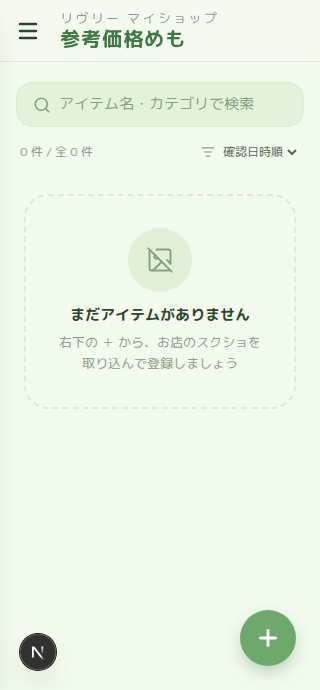
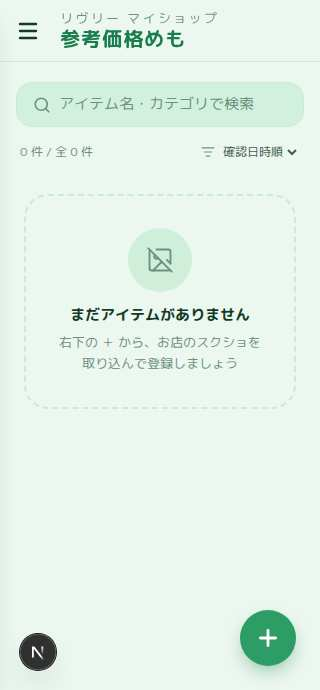
Shift palette to emerald and put reference price first
Re-tunes the green palette toward emerald — deeper accent (#1a7d4d /
#2e9d65) for titles, FAB, and prices, with darker emerald body text on
a paler emerald background. Reorders the card price line to put the
reference price range first in bold emerald, followed by the minimum
sale price in a muted secondary style:
"4,100〜5,300GP / 1,800GP"

Refreshes the screenshots under docs/screenshots/.

https://claude.ai/code/session_01QfKFPG59Pejpqns5ZAaJf6

diff --git a/src/app/globals.css b/src/app/globals.css
@@ -1,18 +1,18 @@
 @import "tailwindcss";
 
 :root {
-  /* Green-based pastel palette. Class names kept (cream/beige/gold) for stability. */
-  --color-cream: #f3faee;       /* page background — pale leaf */
-  --color-beige: #dceed1;       /* card border / soft chip bg */
-  --color-beige-deep: #c2dfb1;  /* deeper leaf */
-  --color-gold: #6fa86c;        /* primary accent (CTA, FAB) — sage */
-  --color-gold-deep: #3f7a44;   /* deep accent for titles / active text */
+  /* Emerald-leaning pastel palette. Class names kept (cream/beige/gold) for stability. */
+  --color-cream: #ecf7f0;       /* page background — pale emerald */
+  --color-beige: #c8ecd6;       /* card border / soft chip bg */
+  --color-beige-deep: #9bd9b0;  /* deeper emerald wash */
+  --color-gold: #2e9d65;        /* primary accent (CTA, FAB) — emerald */
+  --color-gold-deep: #1a7d4d;   /* deep emerald for titles / prices / active */
   --color-pink: #ffd6e0;        /* tag: gacha */
-  --color-mint: #d6f0c8;        /* tag: category — green-leaning mint */
+  --color-mint: #d8f0bf;        /* tag: category — lime-leaning so it stays distinct from bg */
   --color-sky: #c7e9fb;         /* tag: custom */
   --color-lavender: #e0d6ff;    /* tag: period */
-  --color-text: #2f4530;        /* main text — dark forest */
-  --color-muted: #88a085;       /* muted text — sage */
+  --color-text: #133a25;        /* main text — dark emerald forest */
+  --color-muted: #6e9080;       /* muted — sage */
 
   --background: var(--color-cream);
   --foreground: var(--color-text);
@@ -52,8 +52,8 @@ body {
 .paper {
   background-color: var(--color-cream);
   background-image:
-    radial-gradient(rgba(63, 122, 68, 0.05) 1px, transparent 1px),
-    radial-gradient(rgba(63, 122, 68, 0.03) 1px, transparent 1px);
+    radial-gradient(rgba(26, 125, 77, 0.05) 1px, transparent 1px),
+    radial-gradient(rgba(26, 125, 77, 0.03) 1px, transparent 1px);
   background-position: 0 0, 8px 8px;
   background-size: 16px 16px;
 }

diff --git a/src/components/ItemCard.tsx b/src/components/ItemCard.tsx
@@ -37,7 +37,7 @@ export default function ItemCard({
   return (
     <Link
       href={`/items/${item.id}`}
-      className="block rounded-2xl bg-cream border border-beige hover:border-gold/50 active:border-gold transition-colors shadow-[0_2px_8px_-4px_rgba(63,122,68,0.18)] overflow-hidden"
+      className="block rounded-2xl bg-cream border border-beige hover:border-gold/50 active:border-gold transition-colors shadow-[0_2px_8px_-4px_rgba(26,125,77,0.2)] overflow-hidden"
     >
       <div className="flex gap-3 p-3">
         <div className="shrink-0 w-20 h-20 rounded-xl bg-beige/70 border border-beige overflow-hidden flex items-center justify-center text-muted">
@@ -63,13 +63,13 @@ export default function ItemCard({
               🏷 {item.category}
             </div>
           )}
-          <div className="text-[13px] text-text/90 mt-1.5 leading-snug">
-            <span className="font-semibold text-gold-deep">
-              {formatPrice(item.minPrice)}GP
+          <div className="mt-1.5 leading-snug whitespace-nowrap">
+            <span className="font-bold text-gold-deep text-[14px]">
+              {formatPrice(item.refPriceMin)}〜{formatPrice(item.refPriceMax)}GP
             </span>
-            <span className="text-muted mx-1.5">/</span>
-            <span>
-              {formatPrice(item.refPriceMin)}〜{formatPrice(item.refPriceMax)}
+            <span className="text-muted mx-1.5 text-[12px]">/</span>
+            <span className="text-text/70 text-[12px]">
+              {formatPrice(item.minPrice)}GP
             </span>
           </div>
           <div className="flex items-center justify-between mt-1.5 gap-2">

diff --git a/src/components/Fab.tsx b/src/components/Fab.tsx
@@ -6,7 +6,7 @@ export default function Fab({ href }: { href: string }) {
     <Link
       href={href}
       aria-label="新規登録"
-      className="fixed bottom-6 right-6 z-20 w-14 h-14 rounded-full bg-gold text-white shadow-[0_8px_20px_-6px_rgba(63,122,68,0.5)] hover:bg-gold-deep active:scale-95 transition-all flex items-center justify-center"
+      className="fixed bottom-6 right-6 z-20 w-14 h-14 rounded-full bg-gold text-white shadow-[0_8px_20px_-6px_rgba(26,125,77,0.55)] hover:bg-gold-deep active:scale-95 transition-all flex items-center justify-center"
     >
       <Plus size={26} strokeWidth={2.6} />
     </Link>

diff --git a/src/app/layout.tsx b/src/app/layout.tsx
@@ -17,7 +17,7 @@ export const metadata: Metadata = {
 };
 
 export const viewport: Viewport = {
-  themeColor: "#f3faee",
+  themeColor: "#ecf7f0",
   width: "device-width",
   initialScale: 1,
   maximumScale: 1,
